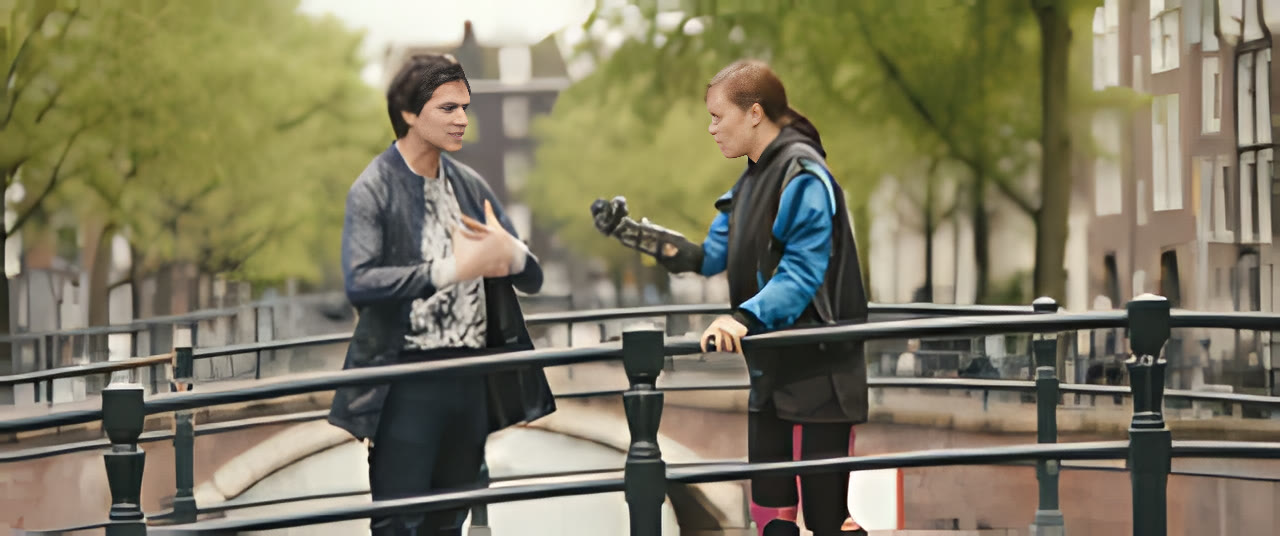
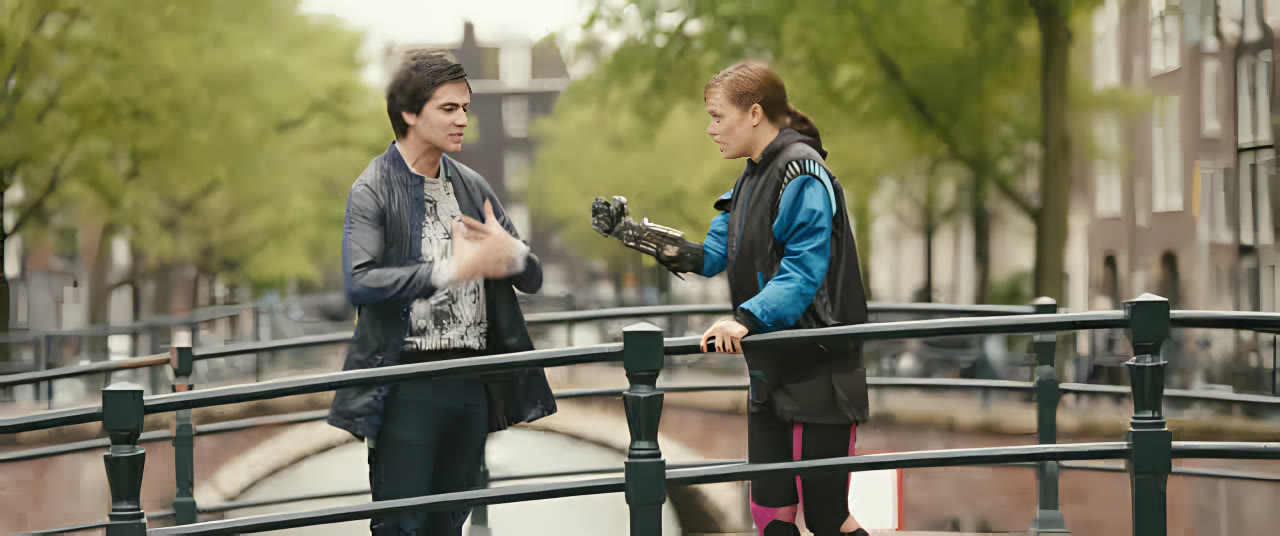
Website: more natural before/after example
The 320 px source upscaled 4× with strong denoising looked painted.
Now a 640 px frame upscaled 2× with General v3 at 20% noise removal and
Face Fix at fidelity 0.9: sharper edges and faces, texture kept. The
enhance_image example gains --noise for General v3's blend.

diff --git a/site/upscale-video-to-4k/index.html b/site/upscale-video-to-4k/index.html
@@ -204,14 +204,14 @@
 <p>When a player or editor enlarges 1080p to 4K, it interpolates between existing pixels (bicubic or Lanczos). The result is bigger but soft. An AI super-resolution model such as <strong>Real-ESRGAN</strong> was trained on millions of image pairs, so it predicts plausible high-resolution detail: crisp edges, readable text, clean textures and less blocky compression.</p>
 <figure class="ba-wrap" style="margin:28px 0 8px">
   <div class="ba" id="ba">
-    <img src="/img/after.jpg" alt="Video frame after FrameScale AI: sharper, cleaner, restored faces" width="1280" height="536" loading="lazy">
-    <img class="before" src="/img/before.jpg" alt="Low-resolution, noisy video frame before enhancement" width="1280" height="536" loading="lazy">
+    <img src="/img/after.jpg" alt="The same frame upscaled by FrameScale AI: sharper edges, texture and faces" width="1280" height="536" loading="lazy">
+    <img class="before" src="/img/before.jpg" alt="Low-resolution video frame enlarged with normal scaling" width="1280" height="536" loading="lazy">
     <span class="lbl l">Before</span><span class="lbl r">After · FrameScale</span>
     <div class="line"></div>
     <input type="range" min="0" max="100" value="50" aria-label="Drag to compare before and after">
     <div class="knob" aria-hidden="true">⇆</div>
   </div>
-  <figcaption class="ba-cap">320-pixel-wide noisy source (left) vs FrameScale AI with NAFNet denoise, Real-ESRGAN General v3 ×4 and Face Fix (right). Footage: <a href="https://mango.blender.org/">Tears of Steel</a> © Blender Foundation, CC BY 3.0.</figcaption>
+  <figcaption class="ba-cap">640-pixel-wide frame enlarged 2× normally (left) vs FrameScale AI with Real-ESRGAN General v3 (noise removal 20%) and Face Fix (right). Footage: <a href="https://mango.blender.org/">Tears of Steel</a> © Blender Foundation, CC BY 3.0.</figcaption>
 </figure>
 <script>(function(){var b=document.getElementById("ba");if(!b)return;var r=b.querySelector("input");var s=function(){b.style.setProperty("--pos",r.value+"%")};r.addEventListener("input",s);s();})();</script>
 

diff --git a/site/topaz-video-ai-alternative/index.html b/site/topaz-video-ai-alternative/index.html
@@ -189,14 +189,14 @@
 </tbody></table></div>
 <figure class="ba-wrap" style="margin:28px 0 8px">
   <div class="ba" id="ba">
-    <img src="/img/after.jpg" alt="Video frame after FrameScale AI: sharper, cleaner, restored faces" width="1280" height="536" loading="lazy">
-    <img class="before" src="/img/before.jpg" alt="Low-resolution, noisy video frame before enhancement" width="1280" height="536" loading="lazy">
+    <img src="/img/after.jpg" alt="The same frame upscaled by FrameScale AI: sharper edges, texture and faces" width="1280" height="536" loading="lazy">
+    <img class="before" src="/img/before.jpg" alt="Low-resolution video frame enlarged with normal scaling" width="1280" height="536" loading="lazy">
     <span class="lbl l">Before</span><span class="lbl r">After · FrameScale</span>
     <div class="line"></div>
     <input type="range" min="0" max="100" value="50" aria-label="Drag to compare before and after">
     <div class="knob" aria-hidden="true">⇆</div>
   </div>
-  <figcaption class="ba-cap">320-pixel-wide noisy source (left) vs FrameScale AI with NAFNet denoise, Real-ESRGAN General v3 ×4 and Face Fix (right). Footage: <a href="https://mango.blender.org/">Tears of Steel</a> © Blender Foundation, CC BY 3.0.</figcaption>
+  <figcaption class="ba-cap">640-pixel-wide frame enlarged 2× normally (left) vs FrameScale AI with Real-ESRGAN General v3 (noise removal 20%) and Face Fix (right). Footage: <a href="https://mango.blender.org/">Tears of Steel</a> © Blender Foundation, CC BY 3.0.</figcaption>
 </figure>
 <script>(function(){var b=document.getElementById("ba");if(!b)return;var r=b.querySelector("input");var s=function(){b.style.setProperty("--pos",r.value+"%")};r.addEventListener("input",s);s();})();</script>
 

diff --git a/site/restore-vhs-tapes/index.html b/site/restore-vhs-tapes/index.html
@@ -209,14 +209,14 @@
 </ul>
 <figure class="ba-wrap" style="margin:28px 0 8px">
   <div class="ba" id="ba">
-    <img src="/img/after.jpg" alt="Video frame after FrameScale AI: sharper, cleaner, restored faces" width="1280" height="536" loading="lazy">
-    <img class="before" src="/img/before.jpg" alt="Low-resolution, noisy video frame before enhancement" width="1280" height="536" loading="lazy">
+    <img src="/img/after.jpg" alt="The same frame upscaled by FrameScale AI: sharper edges, texture and faces" width="1280" height="536" loading="lazy">
+    <img class="before" src="/img/before.jpg" alt="Low-resolution video frame enlarged with normal scaling" width="1280" height="536" loading="lazy">
     <span class="lbl l">Before</span><span class="lbl r">After · FrameScale</span>
     <div class="line"></div>
     <input type="range" min="0" max="100" value="50" aria-label="Drag to compare before and after">
     <div class="knob" aria-hidden="true">⇆</div>
   </div>
-  <figcaption class="ba-cap">320-pixel-wide noisy source (left) vs FrameScale AI with NAFNet denoise, Real-ESRGAN General v3 ×4 and Face Fix (right). Footage: <a href="https://mango.blender.org/">Tears of Steel</a> © Blender Foundation, CC BY 3.0.</figcaption>
+  <figcaption class="ba-cap">640-pixel-wide frame enlarged 2× normally (left) vs FrameScale AI with Real-ESRGAN General v3 (noise removal 20%) and Face Fix (right). Footage: <a href="https://mango.blender.org/">Tears of Steel</a> © Blender Foundation, CC BY 3.0.</figcaption>
 </figure>
 <script>(function(){var b=document.getElementById("ba");if(!b)return;var r=b.querySelector("input");var s=function(){b.style.setProperty("--pos",r.value+"%")};r.addEventListener("input",s);s();})();</script>
 

diff --git a/site/index.html b/site/index.html
@@ -200,14 +200,14 @@
       </div>
       <figure class="ba-wrap">
         <div class="ba" id="ba">
-          <img src="img/after.jpg" alt="The same frame after FrameScale AI: sharp, clean and restored" width="1280" height="536" fetchpriority="high">
-          <img class="before" src="img/before.jpg" alt="Low-resolution, noisy video frame before enhancement" width="1280" height="536">
+          <img src="img/after.jpg" alt="The same frame upscaled by FrameScale AI: sharper edges, texture and faces" width="1280" height="536" fetchpriority="high">
+          <img class="before" src="img/before.jpg" alt="Low-resolution video frame enlarged with normal scaling" width="1280" height="536">
           <span class="lbl l">Before</span><span class="lbl r">After · FrameScale</span>
           <div class="line"></div>
           <input type="range" min="0" max="100" value="50" aria-label="Drag to compare before and after">
           <div class="knob" aria-hidden="true">⇆</div>
         </div>
-        <figcaption class="ba-cap">A 320-pixel-wide, noisy frame enlarged normally (left) and by FrameScale AI with NAFNet denoise, Real-ESRGAN General v3 ×4 and Face Fix (right). Footage: <a href="https://mango.blender.org/">Tears of Steel</a> © Blender Foundation, CC BY 3.0.</figcaption>
+        <figcaption class="ba-cap">A 640-pixel-wide frame enlarged 2× normally (left) and by FrameScale AI with Real-ESRGAN General v3 (noise removal 20%) and Face Fix (right). Footage: <a href="https://mango.blender.org/">Tears of Steel</a> © Blender Foundation, CC BY 3.0.</figcaption>
       </figure>
     </div>
   </div>

diff --git a/scripts/site-guides/content.py b/scripts/site-guides/content.py
@@ -2,14 +2,14 @@
 
 BA = """<figure class="ba-wrap" style="margin:28px 0 8px">
   <div class="ba" id="ba">
-    <img src="/img/after.jpg" alt="Video frame after FrameScale AI: sharper, cleaner, restored faces" width="1280" height="536" loading="lazy">
-    <img class="before" src="/img/before.jpg" alt="Low-resolution, noisy video frame before enhancement" width="1280" height="536" loading="lazy">
+    <img src="/img/after.jpg" alt="The same frame upscaled by FrameScale AI: sharper edges, texture and faces" width="1280" height="536" loading="lazy">
+    <img class="before" src="/img/before.jpg" alt="Low-resolution video frame enlarged with normal scaling" width="1280" height="536" loading="lazy">
     <span class="lbl l">Before</span><span class="lbl r">After · FrameScale</span>
     <div class="line"></div>
     <input type="range" min="0" max="100" value="50" aria-label="Drag to compare before and after">
     <div class="knob" aria-hidden="true">⇆</div>
   </div>
-  <figcaption class="ba-cap">320-pixel-wide noisy source (left) vs FrameScale AI with NAFNet denoise, Real-ESRGAN General v3 ×4 and Face Fix (right). Footage: <a href="https://mango.blender.org/">Tears of Steel</a> © Blender Foundation, CC BY 3.0.</figcaption>
+  <figcaption class="ba-cap">640-pixel-wide frame enlarged 2× normally (left) vs FrameScale AI with Real-ESRGAN General v3 (noise removal 20%) and Face Fix (right). Footage: <a href="https://mango.blender.org/">Tears of Steel</a> © Blender Foundation, CC BY 3.0.</figcaption>
 </figure>
 <script>(function(){var b=document.getElementById("ba");if(!b)return;var r=b.querySelector("input");var s=function(){b.style.setProperty("--pos",r.value+"%")};r.addEventListener("input",s);s();})();</script>
 """

diff --git a/crates/fs-engine/examples/enhance_image.rs b/crates/fs-engine/examples/enhance_image.rs
@@ -1,7 +1,7 @@
 //! Run the real engine on one image (raw RGB24), e.g. for website before/after
 //! pictures:
 //!
-//!   enhance_image <in.rgb> <width> <height> <out.rgb> [--denoise ID LEVEL] [--upscale ID SCALE] [--facefix FIDELITY]
+//!   enhance_image <in.rgb> <width> <height> <out.rgb> [--denoise ID LEVEL] [--upscale ID SCALE] [--noise 0-1] [--facefix FIDELITY]
 //!
 //! Uses the first Vulkan GPU, or the CPU. Models come from `FS_MODELS` or the
 //! bundled resources folder.
@@ -17,7 +17,7 @@ fn main() {
     let a: Vec<String> = std::env::args().collect();
     if a.len() < 5 {
         eprintln!(
-            "usage: enhance_image <in.rgb> <w> <h> <out.rgb> [--denoise ID LEVEL] [--upscale ID SCALE] [--facefix FIDELITY]"
+            "usage: enhance_image <in.rgb> <w> <h> <out.rgb> [--denoise ID LEVEL] [--upscale ID SCALE] [--noise 0-1] [--facefix FIDELITY]"
         );
         std::process::exit(2);
     }
@@ -39,6 +39,15 @@ fn main() {
                 scale: a[i + 2].parse().expect("scale"),
                 denoise: None,
             }),
+            "--noise" => {
+                // Noise removal (0–1) for the last Upscale stage (General v3).
+                let v: f32 = a[i + 1].parse().expect("noise");
+                if let Some(StageConfig::Upscale { denoise, .. }) = stages.last_mut() {
+                    *denoise = Some(v);
+                }
+                i += 2;
+                continue;
+            }
             "--facefix" => {
                 stages.push(StageConfig::FaceFix {
                     model: model("codeformer"),
